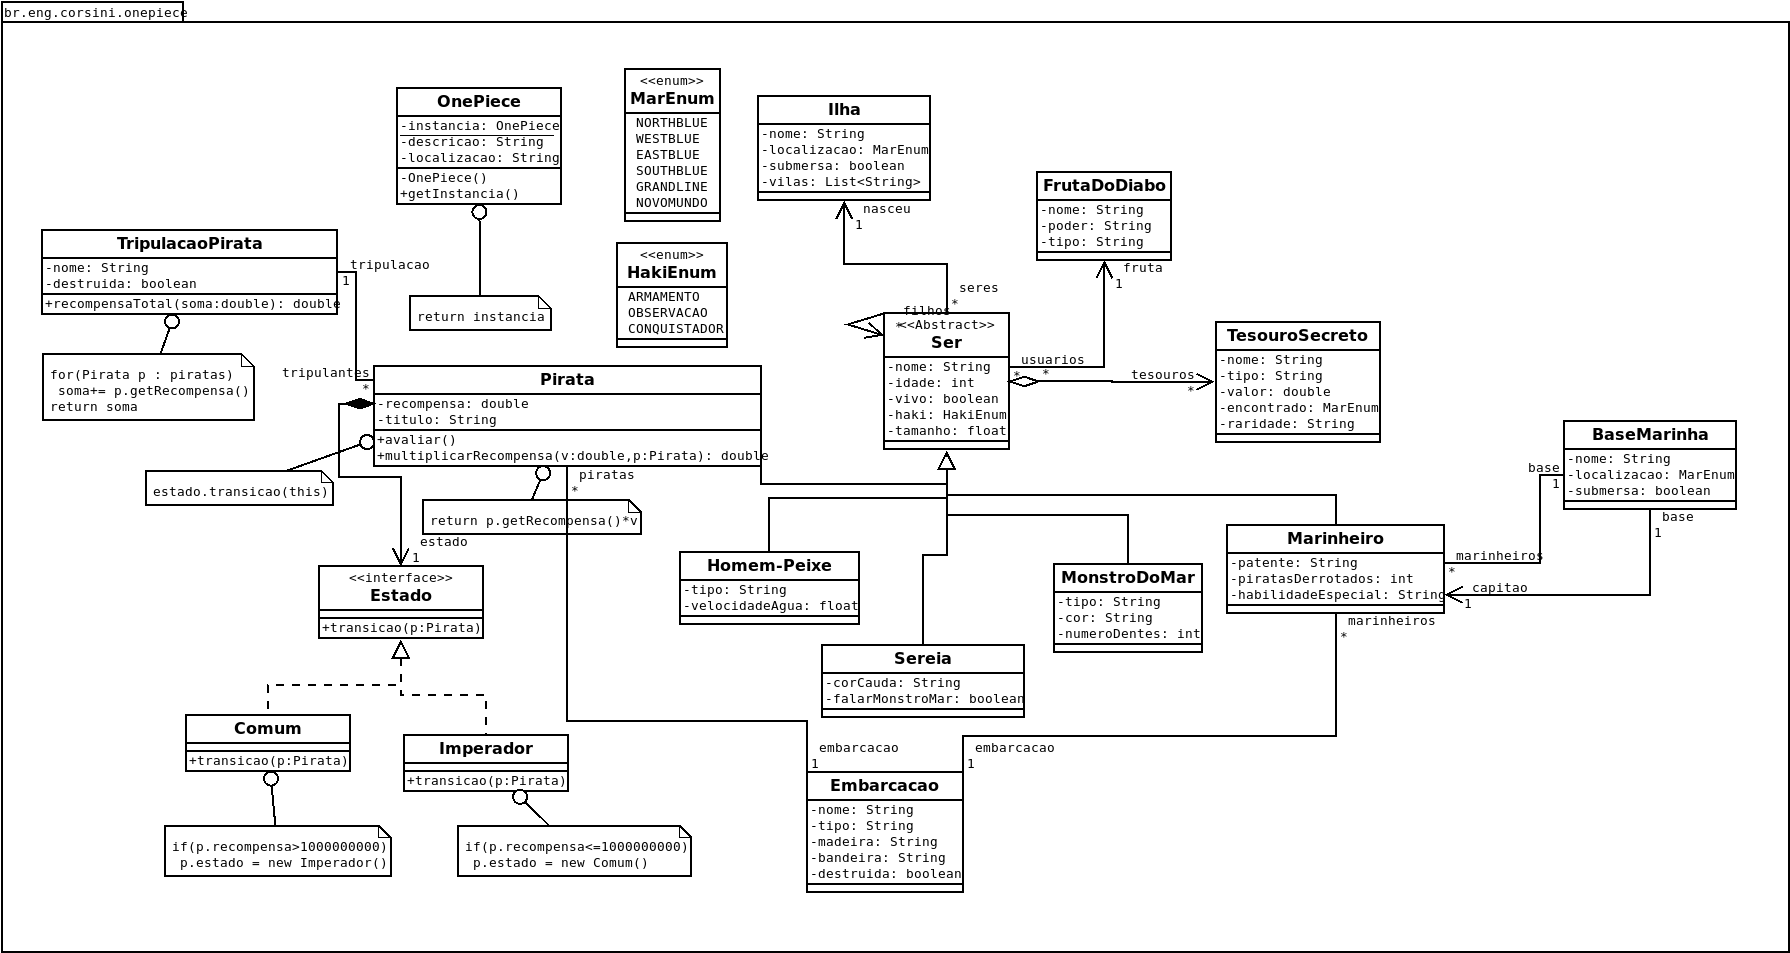
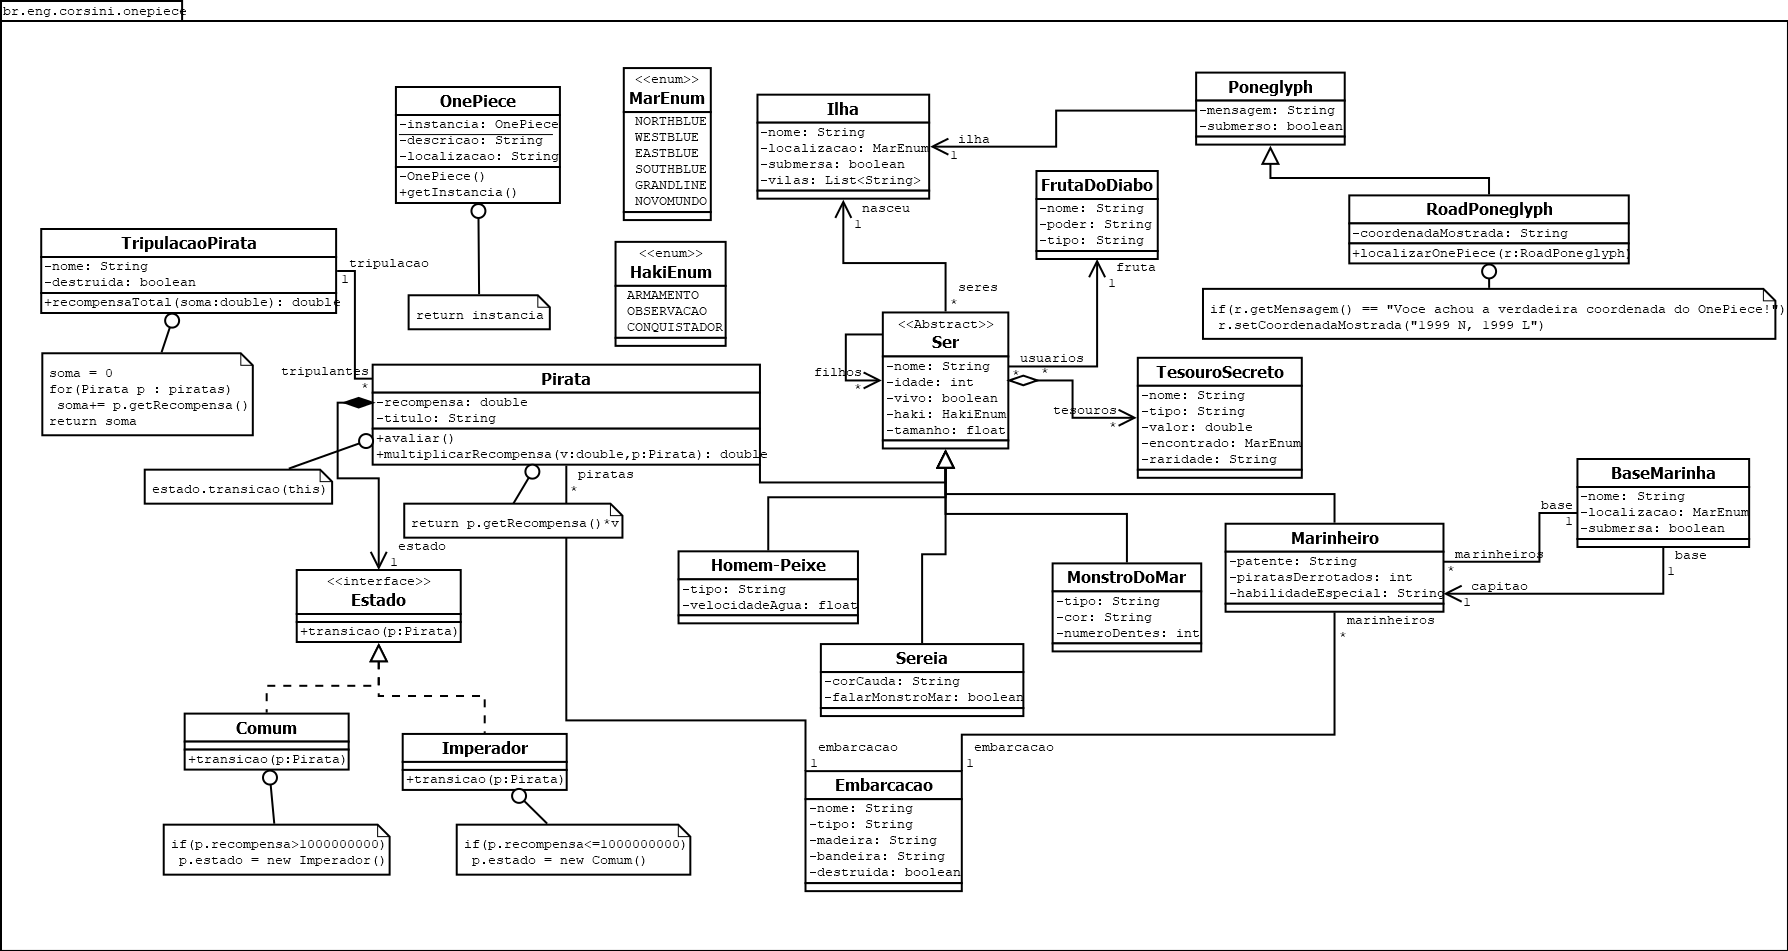
adjusting classes

diff --git a/src/main/java/br/eng/corsini/onepiece_ptbr/Poneglyph.java b/src/main/java/br/eng/corsini/onepiece_ptbr/Poneglyph.java
@@ -1,0 +1,25 @@
+package br.eng.corsini.onepiece_ptbr;
+
+public class Poneglyph {
+    private String mensagem;
+    private boolean submerso;
+    private Ilha ilha;
+    public String getMensagem() {
+        return mensagem;
+    }
+    public void setMensagem(String mensagem) {
+        this.mensagem = mensagem;
+    }
+    public boolean isSubmerso() {
+        return submerso;
+    }
+    public void setSubmerso(boolean submerso) {
+        this.submerso = submerso;
+    }
+    public Ilha getIlha() {
+        return ilha;
+    }
+    public void setIlha(Ilha ilha) {
+        this.ilha = ilha;
+    }
+}

diff --git a/src/main/java/br/eng/corsini/onepiece_ptbr/RoadPoneglyph.java b/src/main/java/br/eng/corsini/onepiece_ptbr/RoadPoneglyph.java
@@ -1,0 +1,17 @@
+package br.eng.corsini.onepiece_ptbr;
+
+public class RoadPoneglyph extends Poneglyph{
+    private String coordenadaMostrada;
+    public void localizarOnePiece(RoadPoneglyph r){
+        if(r.getMensagem() == "Voce achou a verdadeira coordenada do OnePiece!"){
+            r.setCoordenadaMostrada("1999 N, 1997 L");
+        }
+    }
+    public String getCoordenadaMostrada() {
+        return coordenadaMostrada;
+    }
+    public void setCoordenadaMostrada(String coordenadaMostrada) {
+        this.coordenadaMostrada = coordenadaMostrada;
+    }
+
+}

diff --git a/src/main/java/br/eng/corsini/Test.java b/src/main/java/br/eng/corsini/Test.java
@@ -1,0 +1,14 @@
+package br.eng.corsini;
+
+import br.eng.corsini.onepiece_ptbr.*;
+
+public class Test {
+    public static void main(String[] args) {
+        RoadPoneglyph r1 = new RoadPoneglyph();
+        r1.setCoordenadaMostrada("SEGREDO");
+        System.out.println(r1.getCoordenadaMostrada());
+        r1.setMensagem("Voce achou a verdadeira coordenada do OnePiece!");
+        r1.localizarOnePiece(r1);
+        System.out.println(r1.getCoordenadaMostrada());
+    }
+}

diff --git a/src/main/java/br/eng/corsini/AppBr.java b/src/main/java/br/eng/corsini/AppBr.java
@@ -113,6 +113,8 @@ public class AppBr {
             System.out.println(" - " + vila);
         }
 
+        System.out.println(p1.getNasceu().getVilas().size());
+
         // One Piece:
 
         System.out.println("O1: " + o1.getDescricao());
